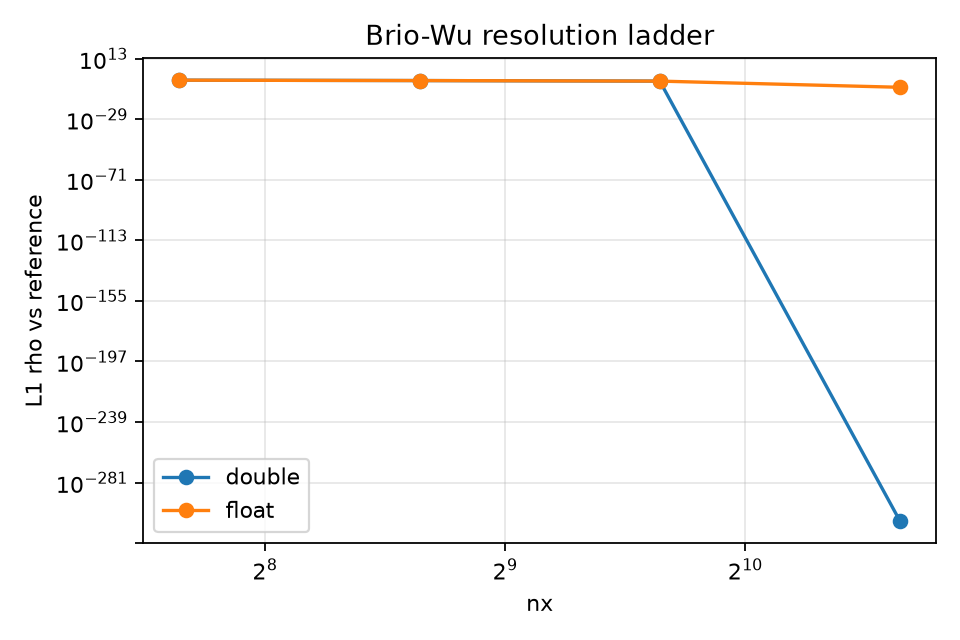
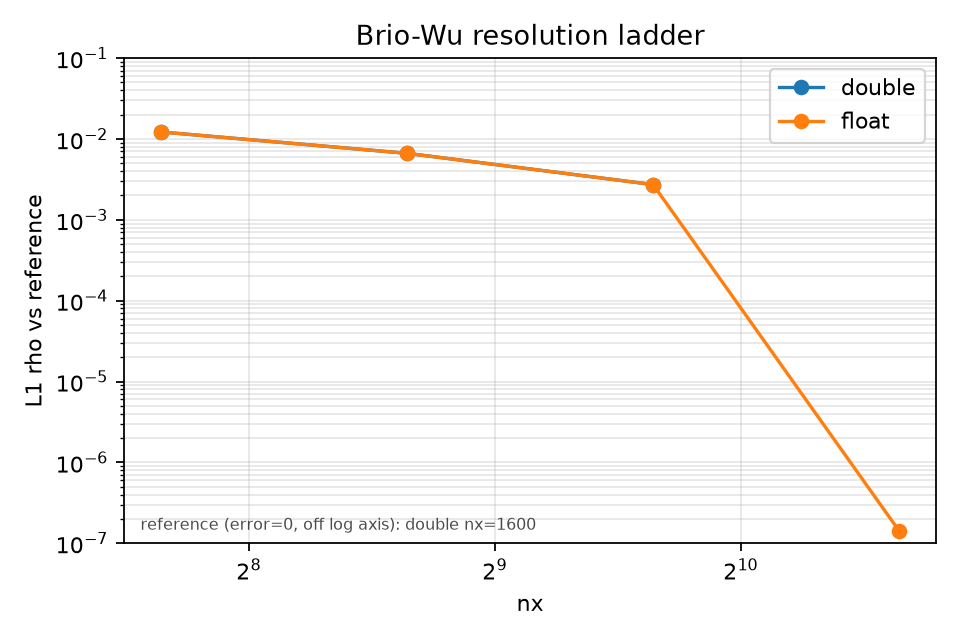
fix(figures): keep resolution-ladder log axis off the zero-error reference point

diff --git a/scripts/regression/mhd_week14_supplemental.py b/scripts/regression/mhd_week14_supplemental.py
@@ -597,23 +597,51 @@ def plot_resolution_ladder(summary: Mapping[str, Any], path: str | pathlib.Path)
     plt = _pyplot()
     fig, ax = plt.subplots(figsize=(6.0, 4.0))
     rows = list(_summary_rows(summary))
+    plotted_values: list[float] = []
+    dropped_reference: list[tuple[str, int]] = []
     for precision in sorted({str(row.get("precision", "unknown")) for row in rows}):
         series = sorted(
             (row for row in rows if str(row.get("precision", "unknown")) == precision),
             key=lambda row: float(row.get("nx", 0)),
         )
-        ax.plot(
-            [float(row["nx"]) for row in series],
-            [_metric(row, "L1_rho") for row in series],
-            marker="o",
-            label=precision,
-        )
+        xs: list[float] = []
+        ys: list[float] = []
+        for row in series:
+            value = _positive_metric(row, "L1_rho")
+            if value is None:
+                # An identically-zero error is the self-reference point (the
+                # fp64 finest-grid run compared to itself). It cannot appear on
+                # a log axis; recording it for annotation avoids clamping it to
+                # the float64 tiny floor, which otherwise stretched the y-axis
+                # down to ~1e-300 and hid the real convergence trend.
+                dropped_reference.append((precision, int(float(row.get("nx", 0)))))
+                continue
+            xs.append(float(row["nx"]))
+            ys.append(value)
+            plotted_values.append(value)
+        if xs:
+            ax.plot(xs, ys, marker="o", label=precision)
     ax.set_xlabel("nx")
     ax.set_ylabel("L1 rho vs reference")
     ax.set_title("Brio-Wu resolution ladder")
     ax.set_xscale("log", base=2)
     ax.set_yscale("log")
+    if plotted_values:
+        lo = 10.0 ** math.floor(math.log10(min(plotted_values)))
+        hi = 10.0 ** math.ceil(math.log10(max(plotted_values)))
+        ax.set_ylim(lo, hi)
     ax.grid(True, which="both", alpha=0.3)
+    if dropped_reference:
+        note = ", ".join(f"{prec} nx={nx}" for prec, nx in dropped_reference)
+        ax.text(
+            0.02,
+            0.02,
+            f"reference (error=0, off log axis): {note}",
+            transform=ax.transAxes,
+            fontsize=7,
+            va="bottom",
+            alpha=0.7,
+        )
     ax.legend()
     _savefig(fig, path)
 
@@ -874,6 +902,20 @@ def _metric(row: Mapping[str, Any], key: str) -> float:
         return float("nan")
     value = float(row.get(key, 0.0))
     return max(value, np.finfo(np.float64).tiny)
+
+
+def _positive_metric(row: Mapping[str, Any], key: str) -> float | None:
+    """Return the raw finite metric for log plotting, or None if non-plottable.
+
+    A zero (self-reference) or non-finite value has no place on a log axis, so
+    callers can skip/annotate it rather than clamp it to the float64 tiny floor.
+    """
+    if row.get("finite") is False:
+        return None
+    value = float(row.get(key, 0.0))
+    if not math.isfinite(value) or value <= 0.0:
+        return None
+    return value
 
 
 def _pyplot():

diff --git a/tests/py/test_mhd_week14_supplemental.py b/tests/py/test_mhd_week14_supplemental.py
@@ -265,6 +265,44 @@ def test_metric_does_not_plot_nonfinite_rows_as_zero_drift():
     assert supp._metric({"finite": True, "Linf_rho": 0.0}, "Linf_rho") == np.finfo(np.float64).tiny
 
 
+def test_positive_metric_drops_zero_and_nonfinite_for_log_axis():
+    # Guards the resolution-ladder log-axis fix: an identically-zero
+    # self-reference point (or a non-finite row) must be excluded, not clamped
+    # to the float64 tiny floor, which otherwise stretched the y-axis to ~1e-300.
+    assert supp._positive_metric({"finite": True, "L1_rho": 0.0}, "L1_rho") is None
+    assert supp._positive_metric({"finite": False, "L1_rho": 0.5}, "L1_rho") is None
+    assert supp._positive_metric({"finite": True, "L1_rho": float("nan")}, "L1_rho") is None
+    assert supp._positive_metric({"finite": True, "L1_rho": 1.42e-7}, "L1_rho") == 1.42e-7
+
+
+def test_resolution_ladder_plot_keeps_a_sane_log_ylim_with_zero_reference(tmp_path, monkeypatch):
+    # Capture the axes the real plot builds; the fixed plot must set its log
+    # y-limits from the positive points only, never descending toward the
+    # ~1e-300 float64 tiny floor that the zero self-reference used to force.
+    captured = {}
+    real_savefig = supp._savefig
+
+    def capture(fig, path):
+        captured["ylim"] = fig.axes[0].get_ylim()
+        real_savefig(fig, path)
+
+    monkeypatch.setattr(supp, "_savefig", capture)
+    summary = {
+        "rows": [
+            {"nx": 200, "precision": "double", "finite": True, "L1_rho": 1.2e-2},
+            {"nx": 400, "precision": "double", "finite": True, "L1_rho": 6.6e-3},
+            {"nx": 1600, "precision": "double", "finite": True, "L1_rho": 0.0},
+            {"nx": 1600, "precision": "float", "finite": True, "L1_rho": 1.4e-7},
+        ]
+    }
+
+    supp.plot_resolution_ladder(summary, tmp_path / "resolution.png")
+
+    lo, hi = captured["ylim"]
+    assert lo >= 1e-8
+    assert hi <= 1.0
+
+
 def test_preserve_run_provenance_carries_metadata_after_remeasurement():
     measured = {"variant": "cpu-double-O2-ieee-leq", "L1_rho": 0.0}
     run_row = {
